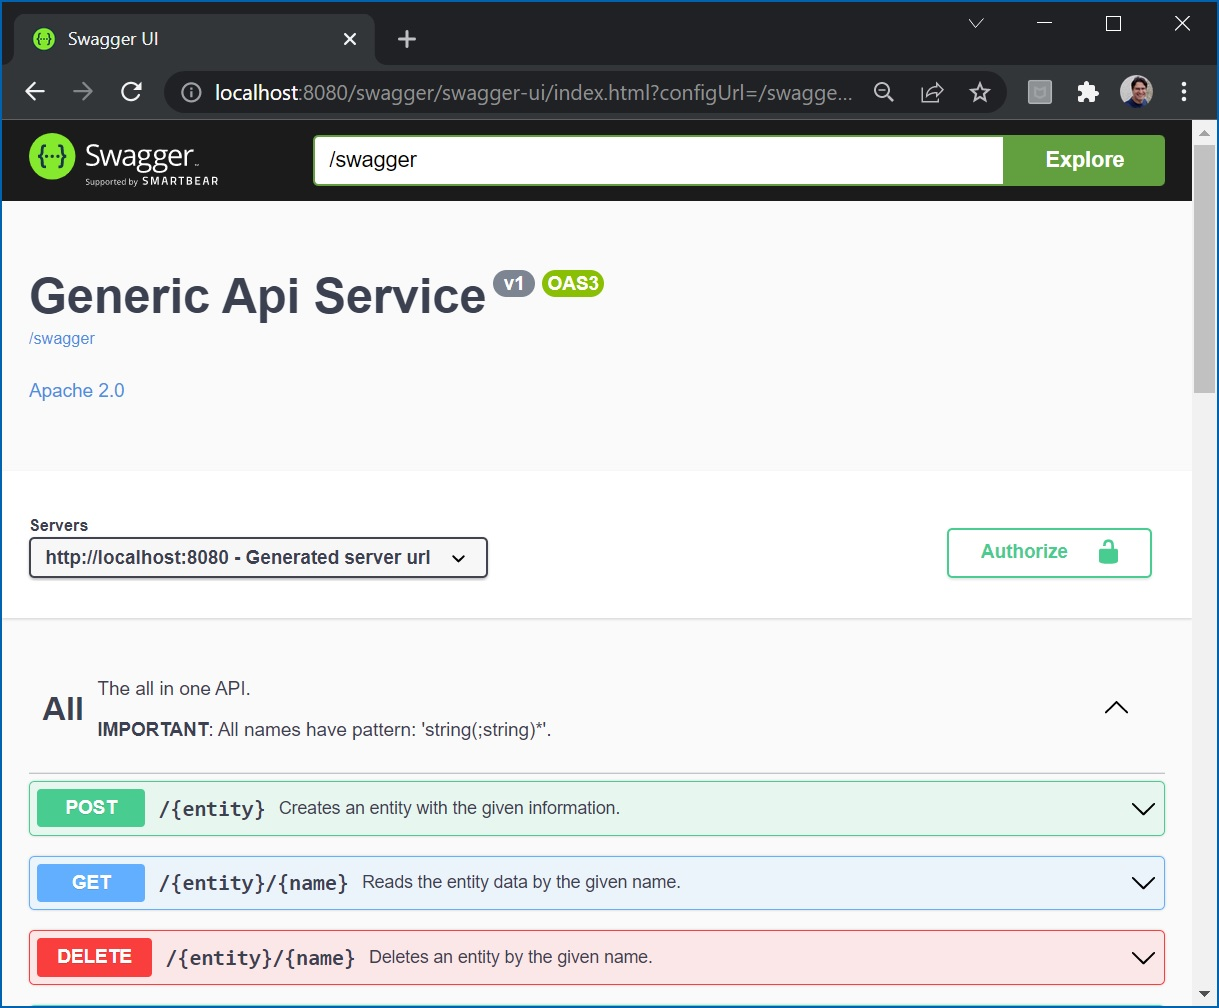
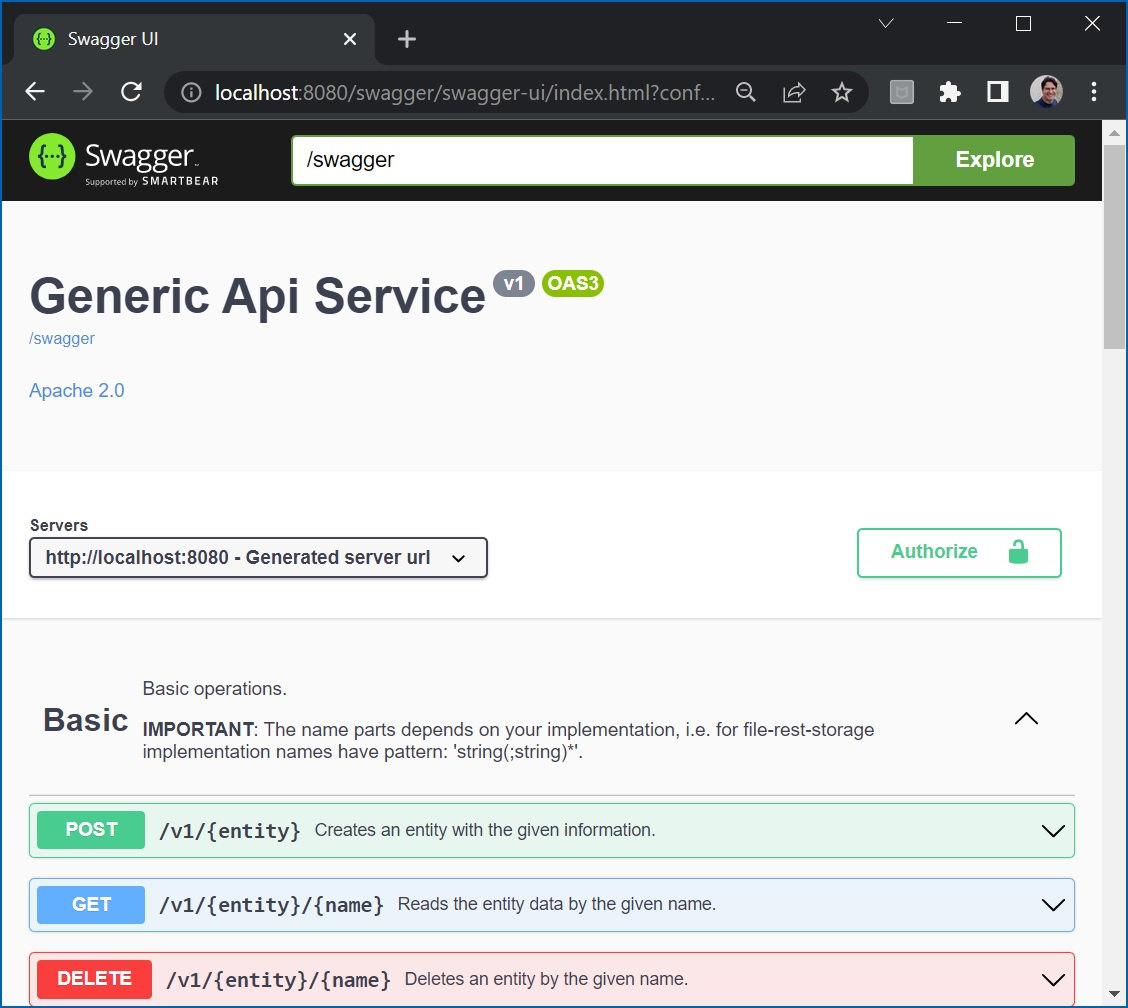
Doc.

diff --git a/README.md b/README.md
@@ -44,136 +44,14 @@ springdoc:
     path: /swagger/ui
     operationsSorter: alpha # Sorting endpoints alphabetically
     tagsSorter: alpha       # Sorting tags alphabetically
-
-# Git-Transactions properties
-gitt:
-  repository:
-    # General properties
-    user: ${YOUR_USER}
-    password: ${YOUR_TOKEN}
-    # tags properties
-    tags:
-      read: data/read/tags
-      write: data/write/tags
-      remote: https://github.com/thiagolvlsantos/git-example.git
 ```
 
-## Domain classes
-
-### Entities
-
-A example of a class fully annotated with file-storage requirements.
-
-```java
-// ...
-@Getter
-@Setter
-@NoArgsConstructor
-@AllArgsConstructor
-@SuperBuilder
-@FileRepo(Tag.REPO)
-public class Tag extends FileObjectVersionedAuditable {
-
-	public static final String REPO = "tags";
-
-	@Schema(description = "Tags's name.", example = "openshift", required = true)
-	@NotNull
-	@NotBlank
-	@Size(min = 1)
-	@FileKey
-	private String name;
-
-	@Schema(description = "Tag's description.", example = "Tag for openshift items.")
-	private String description;
-}
-```
-
-Alias class to be used on creation methods, and referencing in other objects.
-
-```java
-@Getter
-@Setter
-@AllArgsConstructor
-@NoArgsConstructor
-@SuperBuilder
-@FileAliasFor(Tag.class)
-public class TagAlias {
-
-	@Schema(description = "Tag`s name.", example = "openshift", required = true)
-	@NotNull
-	@NotBlank
-	@Size(min = 1)
-	@FileKey
-	private String name;
-}
-```
-
-### Repository
-
-There is a default implementation for repositories.
-
-```java
-//...
-import io.github.thiagolvlsantos.file.storage.util.repository.AbstractFileRepository;
-
-@Repository
-public class TagRepository extends AbstractFileRepository<Tag> {
-
-	public TagRepository() {
-		super(Tag.class);
-	}
-}
-```
-### Service
-
-There is a default implementation for services which mix file-storage and git-transactions requirements.
-
-```java
-//...
-import io.github.thiagolvlsantos.file.storage.util.repository.AbstractFileRepository;
-import io.github.thiagolvlsantos.git.transactions.GitRepo;
-import io.github.thiagolvlsantos.rest.storage.service.AbstractService;
-
-@Service
-@GitRepo(Tag.REPO)
-public class TagService extends AbstractService<Tag> {
-
-	private @Autowired TagRepository repo;
-
-	@Override
-	public AbstractFileRepository<Tag> repository() {
-		return repo;
-	}
-}
-```
-
-### Rest Handler
-
-Lastly, there is a handler for default OpenApi endpoints routing based on `{entity}` which in this example its the `Tag.REPO` name itself.
-
-```java
-//...
-import io.github.thiagolvlsantos.rest.storage.rest.AbstractRestHandler;
-
-@Component
-public class TagRestHandler extends AbstractRestHandler<Tag, TagAlias> {
-
-	public TagRestHandler() {
-		super(Tag.REPO, Tag.class, TagAlias.class);
-	}
-
-	@Override
-	protected Tag toInstance(TagAlias alias) {
-		return Tag.builder().name(alias.getName()).build();
-	}
-}
-```
+## Rest Handler
+Extend `AbstractRestHandler` to receive all events basec on `entity` type. You can, as example, implement a service for a given entity based on `file-storage` or using `jpa + hibernate` to save objects.
 
 ## Endpoints
 
 According to this setup, after server start, the OpenApi interface will be available at [http://localhost:8080/swagger](http://localhost:8080/swagger) and Swagger UI at [http://localhost:8080/swagger/ui](http://localhost:8080/swagger/ui).
-
-This is a generic endpoint where if you use `Tag.REPO` ('tags') as a replacement for `{entity}` the `TagRestHandler` will take the action.
 
 <img alt="Auto-generated API" src="doc/img/swagger-ui.jpg" width="600">
 
